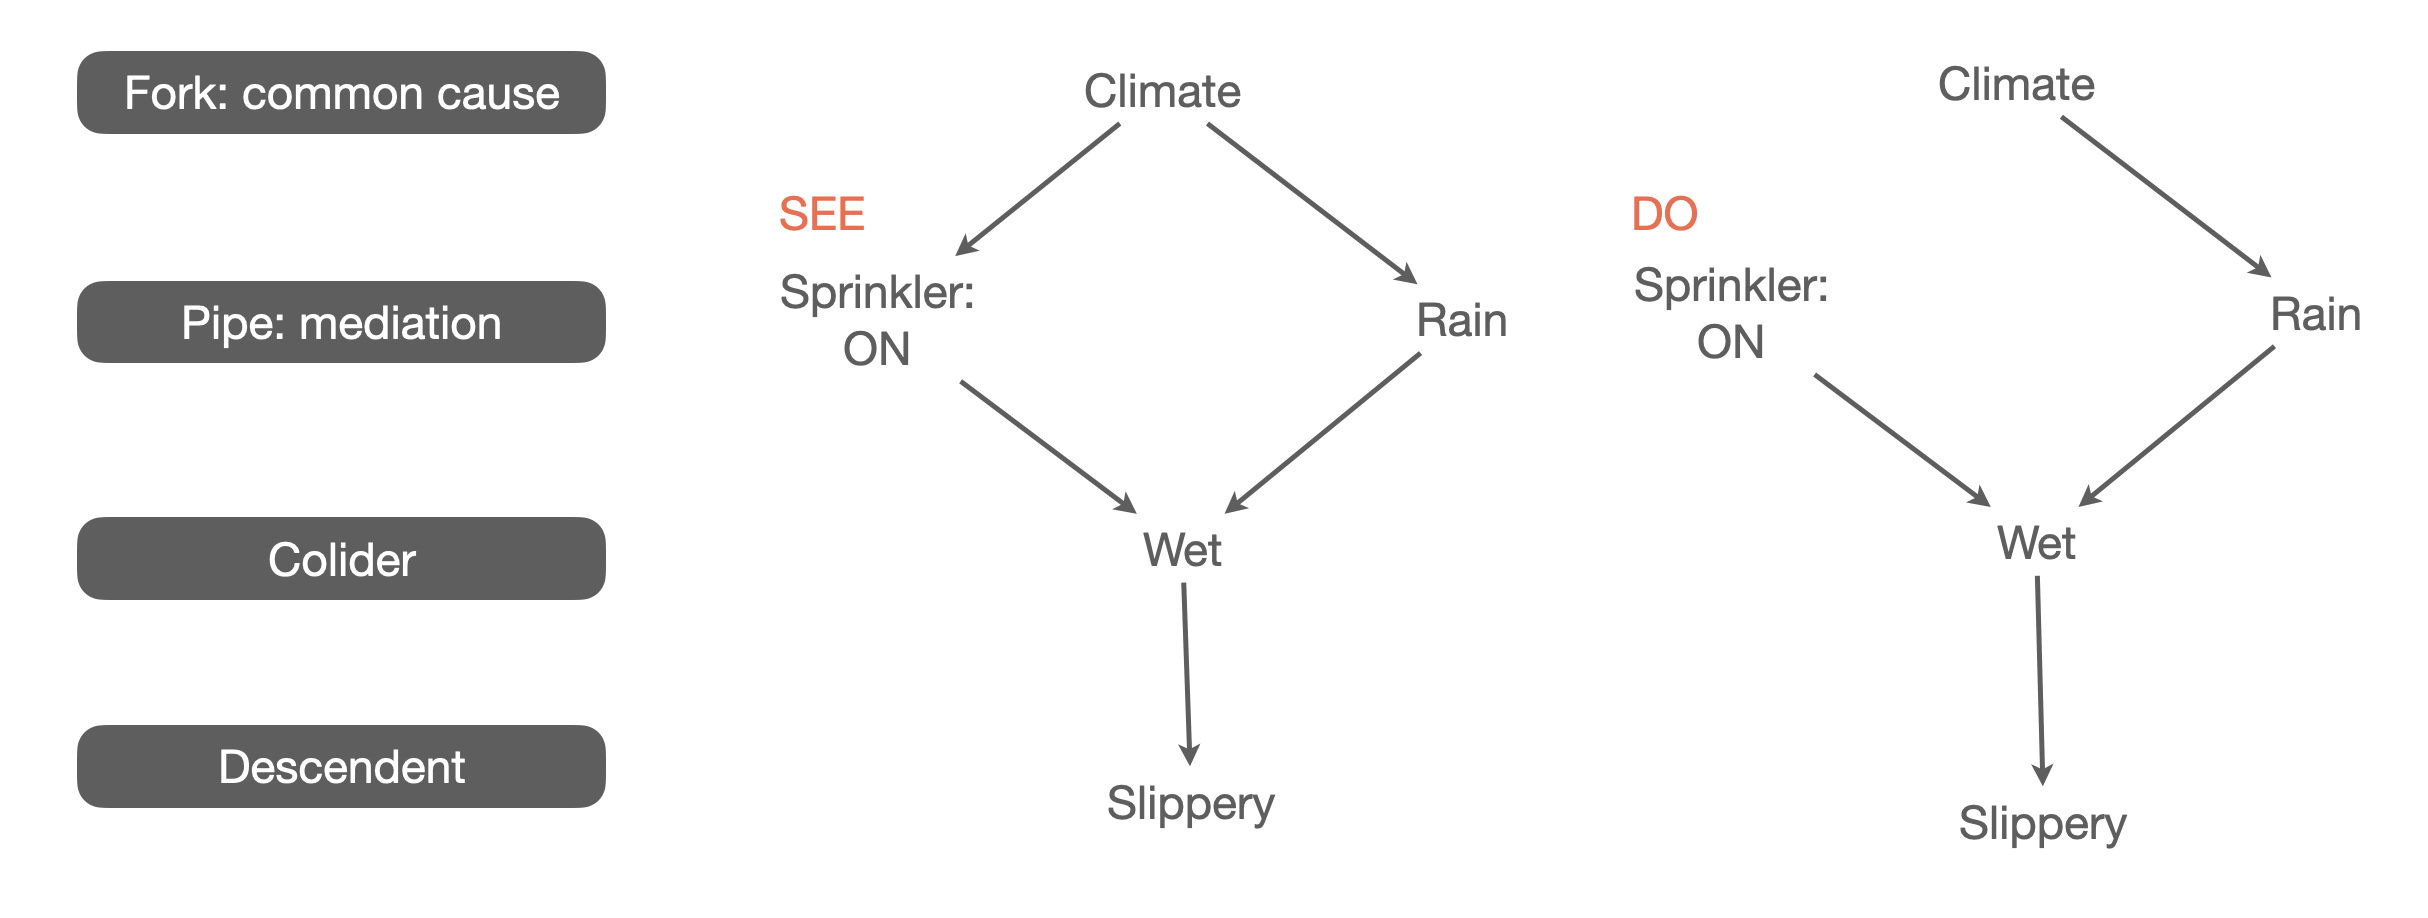
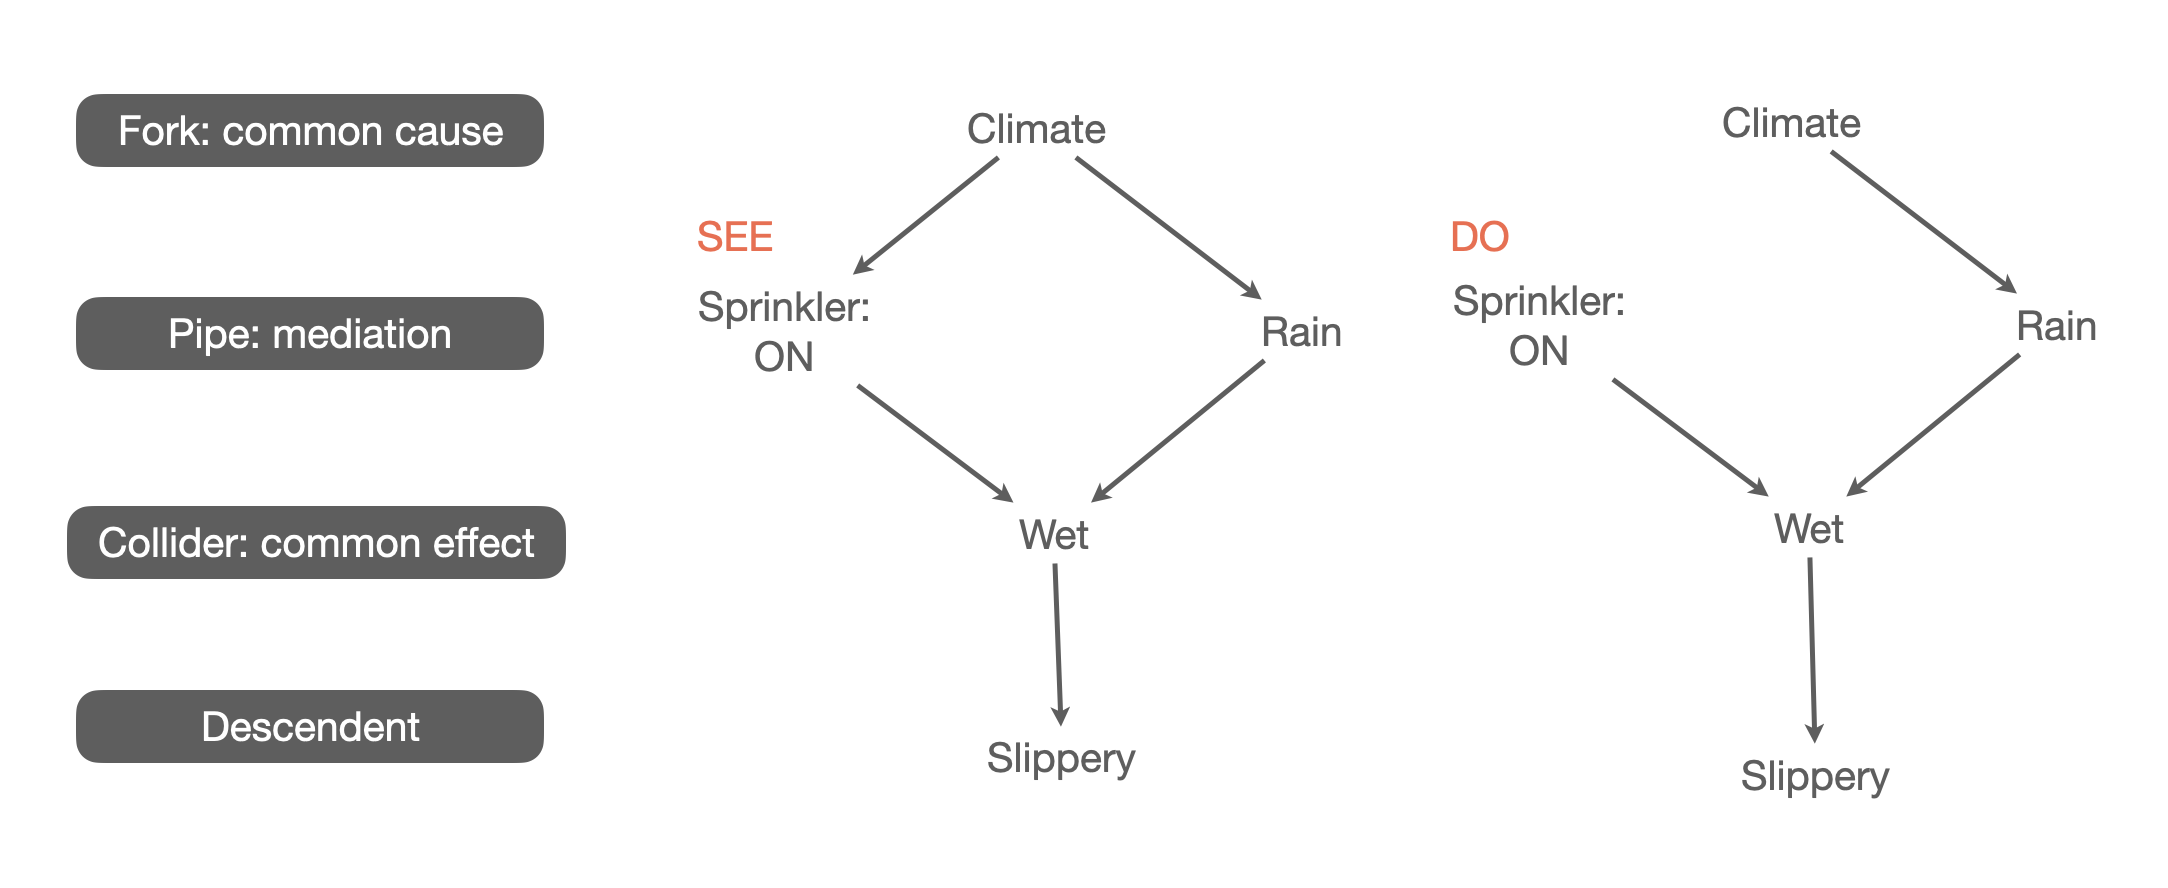
d

diff --git a/docs/contents/two-cultures.html b/docs/contents/two-cultures.html
@@ -7,7 +7,7 @@
 <meta name="viewport" content="width=device-width, initial-scale=1.0, user-scalable=yes">
 
 <meta name="author" content="Sungkyun Cho">
-<meta name="dcterms.date" content="2024-10-29">
+<meta name="dcterms.date" content="2025-01-02">
 
 <title>Two Cultures –  Intro to Data Science</title>
 <style>
@@ -562,7 +562,7 @@ window.Quarto = {
     <div>
     <div class="quarto-title-meta-heading">Published</div>
     <div class="quarto-title-meta-contents">
-      <p class="date">October 29, 2024</p>
+      <p class="date">January 2, 2025</p>
     </div>
   </div>
   
@@ -1088,7 +1088,7 @@ color in guinea pigs. D = developmental factors (after conception, before birth)
 <section id="dag" class="level2">
 <h2 class="anchored" data-anchor-id="dag">DAG</h2>
 <p><strong>Directed acyclic graph (DAG): 인과 관계 다이어그램</strong></p>
-<p><img src="images/DAG.png" class="img-fluid" width="830"></p>
+<p><img src="images/DAG.png" class="img-fluid" width="820"></p>
 <div style="line-height: 1.5em; font-size: .9em">
 <p>Source: Causality: Models, Reasoning, and Inference (2000) by Judea Pearl</p>
 </div>
@@ -1099,12 +1099,14 @@ color in guinea pigs. D = developmental factors (after conception, before birth)
 <div class="column" style="width:50%;">
 <p>신발을 신고 잠든 다음날 두통이 생긴다면?<br>
 <strong>Fork:Common Cause</strong></p>
-<p><img src="images/causal_diagram_headache.png" class="img-fluid" width="340"><br>
-Source: <em>Introduction to Causal Inference (ICI) by Brady Neal</em></p>
+<p><img src="images/causal_diagram_headache.png" class="img-fluid" width="340"></p>
+<div style="line-height: 1.5em; font-size: .9em">
+<p>Source: <em>Introduction to Causal Inference (ICI) by Brady Neal</em></p>
+</div>
 </div><div class="column" style="width:45%;">
 <p>운동능력이 뛰어나면 지능이 낮은가?<br>
-<strong>Colider: Common Effect</strong> <br></p>
-<p><img src="images/colider.png" class="img-fluid" width="300"></p>
+<strong>Collider: Common Effect</strong> <br></p>
+<p><img src="images/collider.png" class="img-fluid" width="300"></p>
 </div>
 </div>
 <div class="callout callout-style-default callout-important callout-titled">
@@ -1150,6 +1152,11 @@ Source: <em>Introduction to Causal Inference (ICI) by Brady Neal</em></p>
 </div>
 </div>
 </div>
+<p><strong>코딩 기술이 뛰어나면 협업능력이 떨어지는가?</strong><br>
+어느 회사에서 지원자의 코딩 능력과 협업 능력을 1점부터 5점까지 정량화하여,<br>
+총점 8점 이상을 받은 지원자를 모두 채용한다고 했을 때,</p>
+<p><img src="images/collider2.png" class="img-fluid" width="300"></p>
+<p><br></p>
 <p><strong>학생들의 과제는 성적에 영향을 주는가?</strong><br>
 Source: <em>National Education Longitudinal Study of 1988 (NELS:88)</em></p>
 <p><img src="images/causal_diagram_grades.png" class="img-fluid" width="500"></p>
@@ -1784,7 +1791,7 @@ window.document.addEventListener("DOMContentLoaded", function (event) {
     </div>
   </div>
 </footer>
-<script>var lightboxQuarto = GLightbox({"selector":".lightbox","openEffect":"zoom","closeEffect":"zoom","loop":false,"descPosition":"bottom"});
+<script>var lightboxQuarto = GLightbox({"descPosition":"bottom","closeEffect":"zoom","loop":false,"openEffect":"zoom","selector":".lightbox"});
 (function() {
   let previousOnload = window.onload;
   window.onload = () => {
